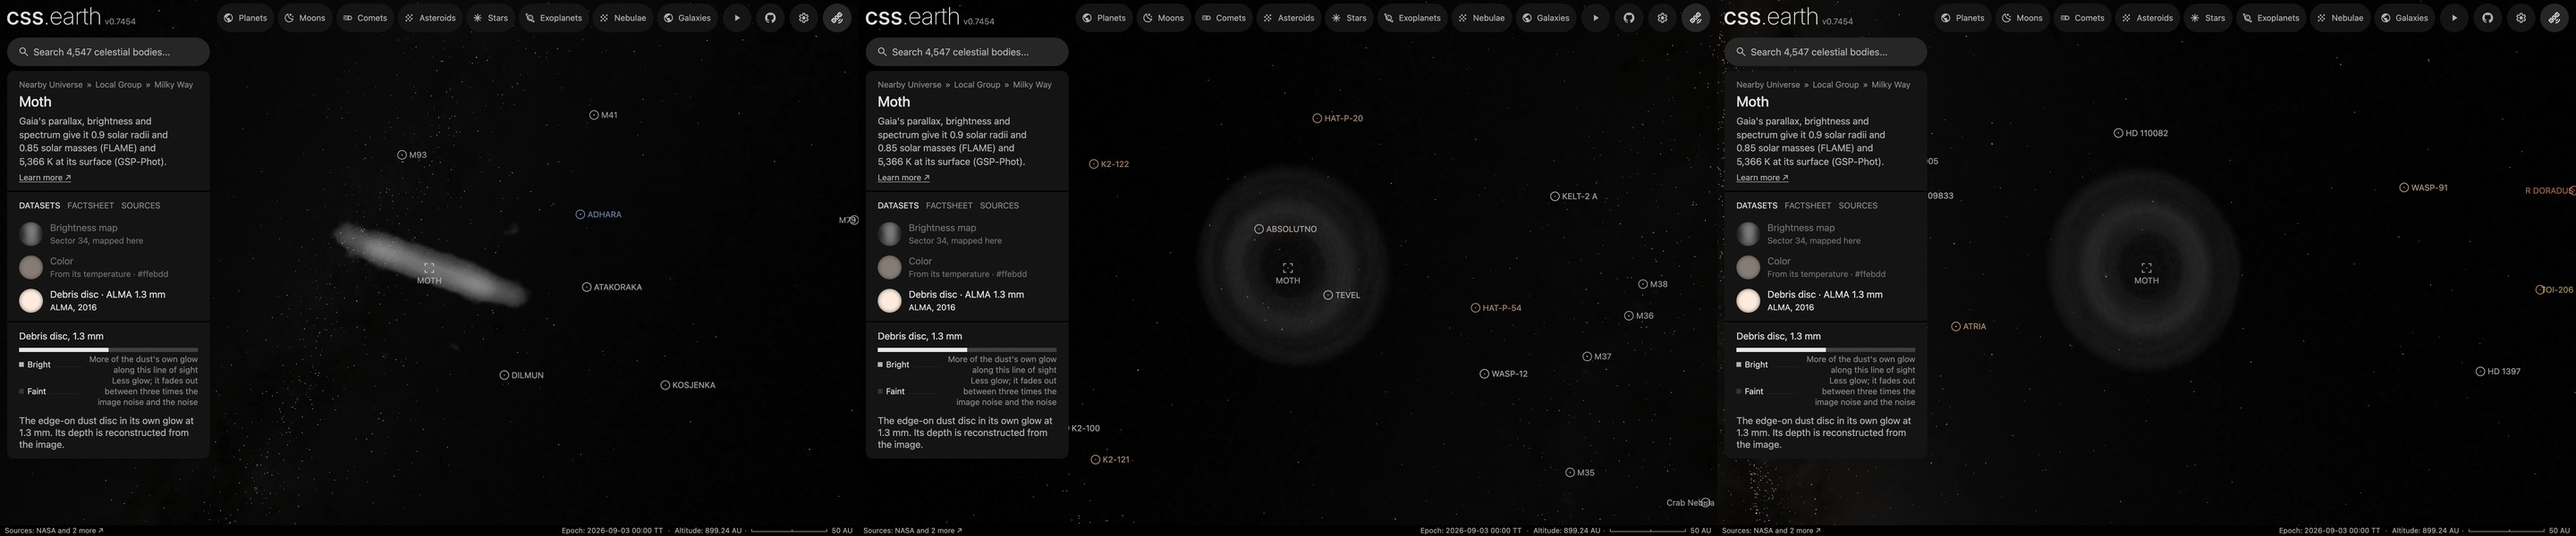
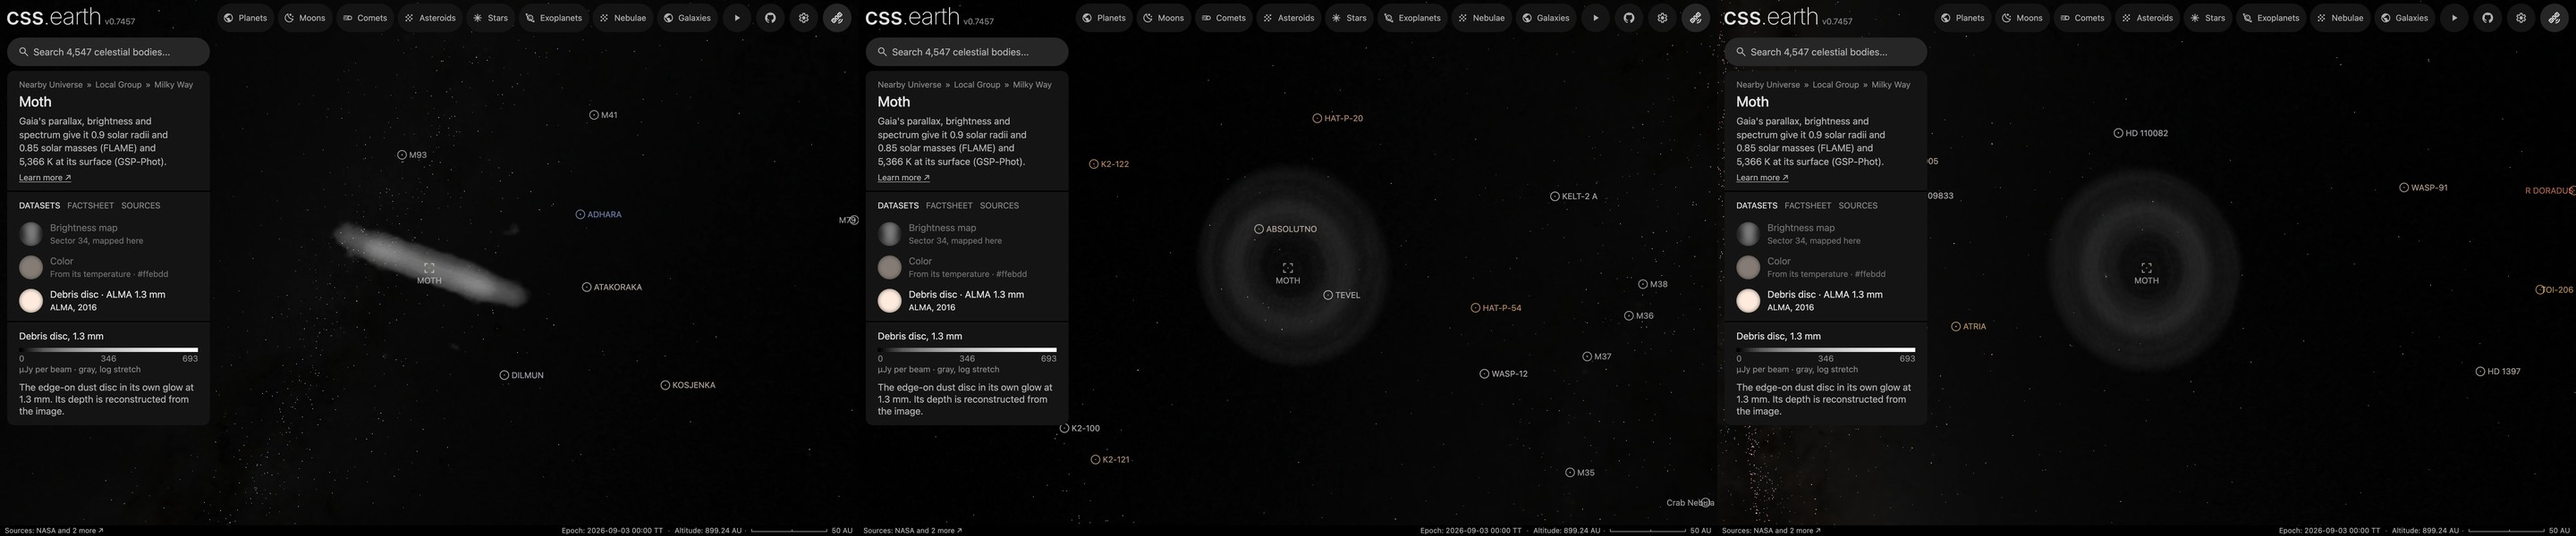
fix(objects): the Moth's disc legend is a gray scale with three labels, evidence retaken

Changed region(s): [[0.6562, 0.63, 0.75, 0.84], [0.0, 0.63, 0.0938, 0.84], [0.3438, 0.63, 0.4062, 0.84]]

diff --git a/src/objects/moth-disc/README.md b/src/objects/moth-disc/README.md
@@ -22,6 +22,9 @@ One volume unit is one astronomical unit at the star's Gaia DR3 distance (36.45 
 ## Evidence
 
 - The page in the application on 2026-10-08 (image above, headless Chrome, no page errors), opened by a link that names the dataset (`/moth/?dataset=debris-disc`), which frames the whole disc: as it opens, then dragged 260 pixels up, then 300 pixels down from the opening view. Picked by hand from the page's opening view, the dataset leaves the camera at the star, 4.5 million km out, and the disc is outside the view until the reader zooms out.
+- The two pages of this change as they show their discs: [HD 95086](../hd-95086-disc/README.md), a plain star, opens on its ring; the Moth keeps its opening view and shows its disc when a link names the dataset.
+
+  ![HD 95086 as its page opens, and the Moth opened by a link to its disc](evidence/2026-10-08/opening-views.jpg)
 - The author's preview of the image as drawn, north up ([previews/dust.png](source/previews/dust.png)), to compare with MacGregor et al.'s [Figure 2](https://arxiv.org/abs/1812.05610).
 - **The image against the paper's numbers:**
 
